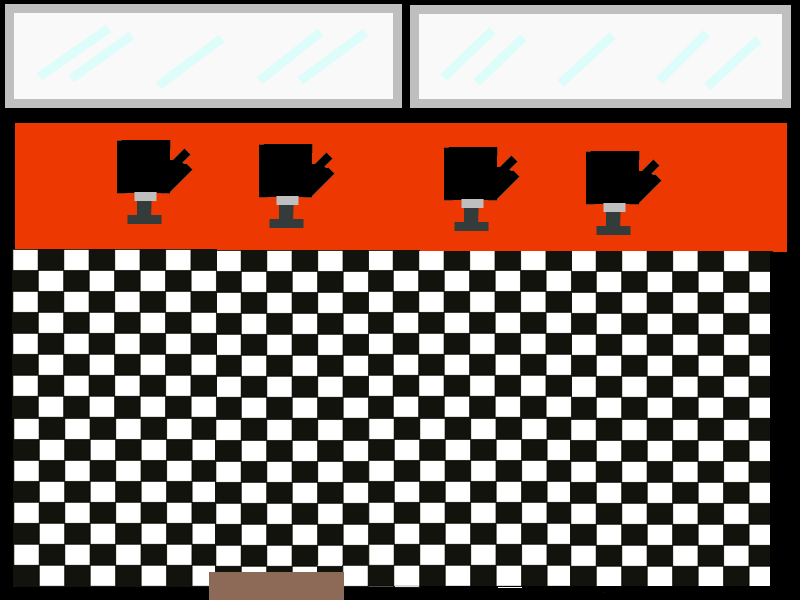
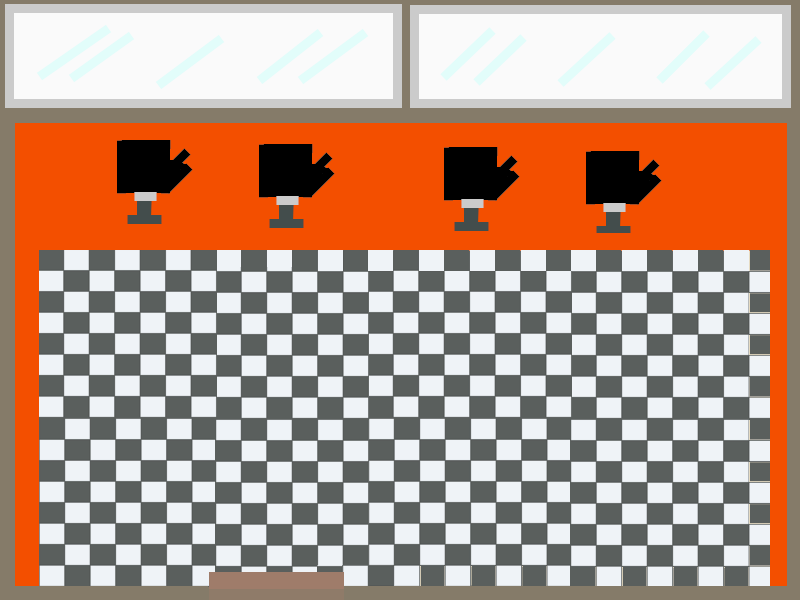
More changes:
+edited barber asset and background to make it easier to see

+hid more secret clues

+moved recipt to barberDead map

diff --git a/scripts/main.js b/scripts/main.js
@@ -134,10 +134,14 @@ function init() {
 	peteyClue.clueInfo = makeInfoSprite("./assets/petey_info.png");
 	beachMap.map_Objects.push(peteyClue);
 	
-	secretClue1 = new Clue(-1000, 500, 1, "./assets/secret.png", 24, 24, "M");
+	secretClue1 = new Clue(-1000, -30, 1, "./assets/secret.png", 24, 24, "M");
  	secretClue1.clueInfo = makeInfoSprite("./assets/secret_info.png");
  	secretClue1.secret = true;
 	beachMap.map_Objects.push(secretClue1);
+	
+	//Burning Barrel (which contains secretClue1)
+	barrel = new NPC(-800, 310, 1, "./assets/burningBarrel.png",88, 119, "barrel");
+	beachMap.map_Objects.push(barrel);
 	
 	//Adding Cop (NPC object instance)
 	cop = new NPC(-200, 235, 1, "./assets/Copper.png", 35, 135, "cop_beach");
@@ -168,11 +172,7 @@ function init() {
 	/**************************************CITY MAP*********************************/
 	
 	cityMap.map_Objects.push(container);
-	
-	//burningBarrel
-	barrel = new NPC(-350, 310, 1, "./assets/burningBarrel.png",88, 119, "barrel");
-	cityMap.map_Objects.push(barrel);
-	
+
 	//Adding creep guy
 	guy2 = new NPC(400, 450, 1, "./assets/guy2.png",56,141, "creep");
 	cityMap.map_Objects.push(guy2);
@@ -181,17 +181,13 @@ function init() {
 	phone = new NPC(50, 275, 1, "./assets/PhoneBooth.png", 72, 150, "phone");
 	cityMap.map_Objects.push(phone);
 	
-	//receiptSprite
-	receipt = new Clue(-600, 450, 1, "./assets/receiptSprite.png", 20,32, "receipt");
- 	receipt.clueInfo = makeInfoSprite("./assets/Receipt.png");
- 	cityMap.map_Objects.push(receipt);
-	
-	//Secret Clues
+	//phone booth contains secretClue2
  	secretClue2 = new Clue(0, -30, 1, "./assets/secret2.png", 24, 24, "A");
  	secretClue2.clueInfo = makeInfoSprite("./assets/secret2_info.png");
  	secretClue2.secret = true;
  	cityMap.map_Objects.push(secretClue2);
  	
+ 	//Secret clues
  	secretClue3 = new Clue(-200, 500, 1, "./assets/secret3.png", 24, 24, "N");
  	secretClue3.clueInfo = makeInfoSprite("./assets/secret3_info.png");
  	secretClue3.secret = true;
@@ -216,16 +212,13 @@ function init() {
 	barberMap.map_Objects.push(container);
 	
 	
-	barber = new NPC(75, 100, 1, "./assets/barber.png", 28, 130, "barber");
+	barber = new NPC(400, 150, 1, "./assets/barber.png", 40, 130, "barber");
 	barberMap.map_Objects.push(barber);
 	
 	haircut = new NPC(500, 500, 1, "./assets/guy3.png", 60, 160, "haircut");
 	barberMap.map_Objects.push(haircut);
 	
-	secretClue3 = new Clue(-1400, 200, 1, "./assets/secret3.png", 24, 24, "N");
- 	secretClue3.clueInfo = makeInfoSprite("./assets/secret3_info.png");
- 	secretClue3.secret = true;
- 	barberMap.map_Objects.push(secretClue3);
+
 
  	barberMap.map_Objects.push(inventory);
 	barberMap.map_Objects.push(player);
@@ -239,11 +232,26 @@ function init() {
 	/**************************************Barber2 MAP*********************************/
 	barberMap2.map_Objects.push(container);
 	
-	barberDead = new NPC(75, 100, 1, "./assets/barberDead.png", 130, 28, "barberDead");
+	barberDead = new NPC(400, 250, 1, "./assets/barberDead.png", 132, 42, "barberDead");
 	barberMap2.map_Objects.push(barberDead);
+	
+	secretClue3 = new Clue(-1200, 300, 1, "./assets/secret3.png", 24, 24, "N");
+ 	secretClue3.clueInfo = makeInfoSprite("./assets/secret3_info.png");	
+ 	secretClue3.secret = true;
+ 	barberMap2.map_Objects.push(secretClue3);
+ 	
+ 	//receiptSprite
+	receipt = new Clue(-1200, 400, 1, "./assets/receiptSprite.png", 20,32, "receipt");
+ 	receipt.clueInfo = makeInfoSprite("./assets/Receipt.png");
+ 	barberMap2.map_Objects.push(receipt);
 
 	barberMap2.map_Objects.push(inventory);
 	barberMap2.map_Objects.push(player);
+	
+		//add clueInfos
+	for(var i = 0; i<clues.length; i++){
+		barberMap2.map_Objects.push(clues[i].clueInfo);
+	}
 	
 	/**************************************nypd MAP*********************************/
 	nypdMap.map_Objects.push(container);
@@ -292,23 +300,23 @@ function update(){
 		boyce.stickNPCtoBack();
 		petey.stickNPCtoBack();
 		guy1.stickNPCtoBack();
+		barrel.stickNPCtoBack();
 		
 	}
 	/**************************************City MAP [update]*********************************/
 	if(currentMapName == "city"){
 		moveInventory();
 		player.update();
-		
-		guy2.stickNPCtoBack();
-		phone.stickNPCtoBack();
-		barrel.stickNPCtoBack();
-		
+	
 		for(var i = 0; i<clues.length; i++){
 			the_clue = clues[i];
 			if(!the_clue.discovered){
 				the_clue.stickClueToBack();
 			}
 		}
+		
+		guy2.stickNPCtoBack();
+		phone.stickNPCtoBack();
 	}
 	
 	/**************************************Barber MAP [update]*********************************/

diff --git a/scripts/dialogue.js b/scripts/dialogue.js
@@ -195,10 +195,7 @@ function showDialogue(targetDialogue, state){
 	}
 	
 	if(targetDialogue == "barberDead"){
-		if(state == 0){
-			textContainer.removeAllChildren();
-			player.immobile = false;
-		}
+		textContainer.removeAllChildren();
 	}
 	
 	if(targetDialogue == "haircut"){
@@ -207,8 +204,9 @@ function showDialogue(targetDialogue, state){
 	
 	if(targetDialogue == "barrel"){
 		if(state==0){
-			textContainer.removeAllChildren();
-			player.immobile = false;
+			createDialougeBox(textContainer, "*You pull this slip of paper from the ashes*", null, null, null, null, null, "Leave");
+			//player.immobile = false;
+			secretClue1.handleClick();
 		}
 	}
 	
